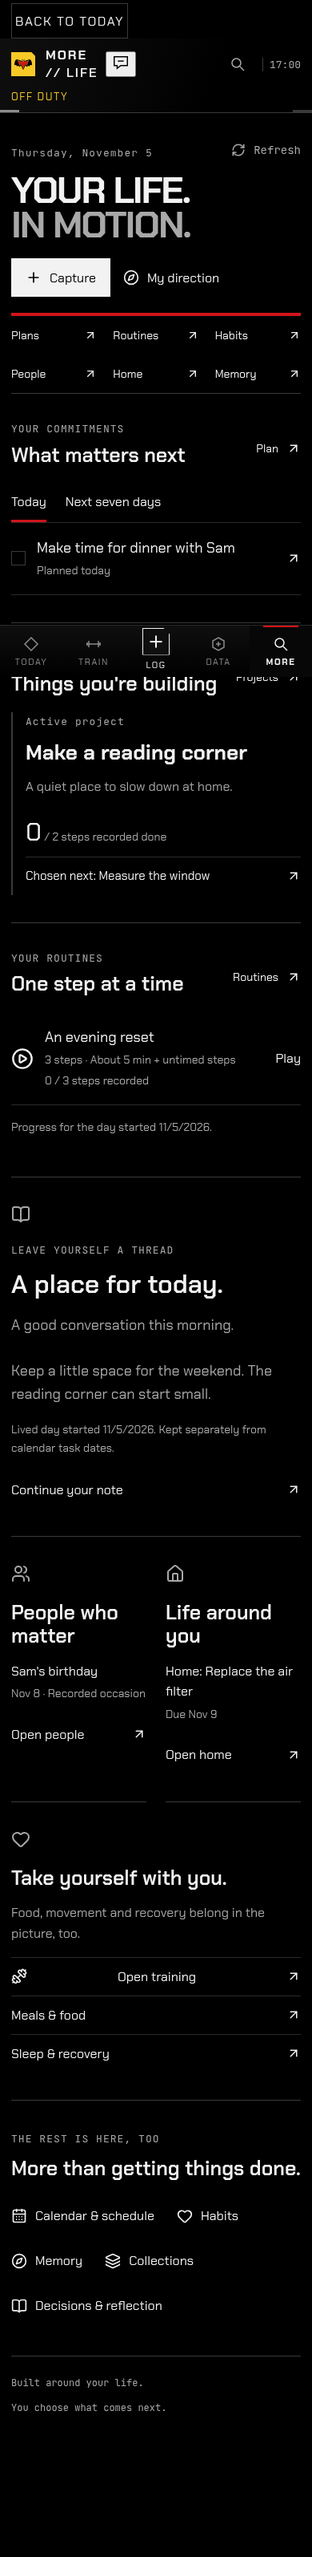
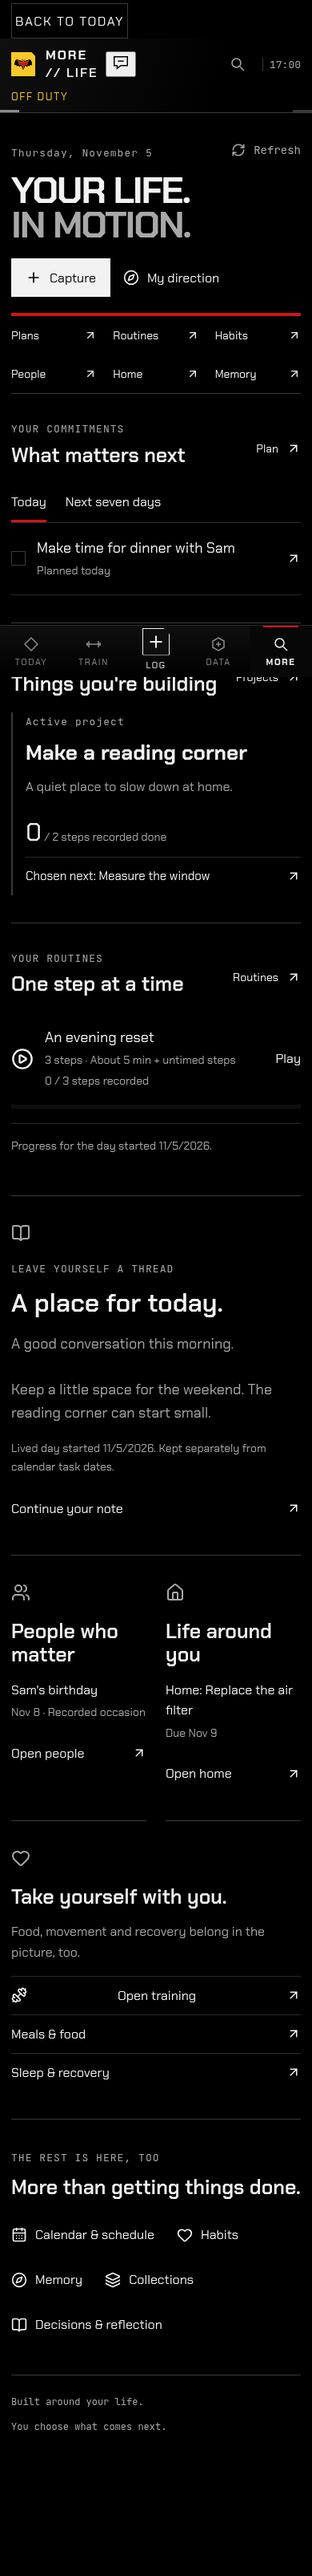
WHOLE-LIFE-001: make resumption and recorded progress visible

diff --git a/src/ui/screens/more/WholeLifeHome.tsx b/src/ui/screens/more/WholeLifeHome.tsx
@@ -59,6 +59,9 @@ export function WholeLifeHome({ active, onArea, onNavigate, onTask, idPrefix }: 
       <h2 id={`${idPrefix}-title`} tabIndex={-1}>YOUR LIFE.<br /><span>IN MOTION.</span></h2>
       <p className="wl-intro">{greeting}</p>
       <div className="wl-hero-actions"><button type="button" aria-label="Capture a thought" disabled={!onNavigate} onClick={() => navigate({ kind: "capture" })}><Plus size={20} /> Capture</button><button type="button" onClick={() => onArea("Direction")}><Compass size={20} /> My direction</button></div>
+      {workout && <button type="button" className="wl-resume" disabled={!onNavigate} onClick={() => navigate({ kind: "workout" })}>
+        <Dumbbell size={24} /><span><small>RECORDED WORKOUT IN PROGRESS</small><strong>Return to your workout</strong></span><ArrowUpRight size={20} />
+      </button>}
     </section>
     <nav className="wl-area-nav" aria-label="Life shortcuts">{(["Plans", "Routines", "Habits", "People", "Home", "Memory"] as const).map((area) => <button type="button" key={area} onClick={() => onArea(area)}>{area}<ArrowUpRight size={16} /></button>)}</nav>
     {!data ? <p role="status">Bringing your records together…</p> : <div className="wl-layout">
@@ -72,7 +75,7 @@ export function WholeLifeHome({ active, onArea, onNavigate, onTask, idPrefix }: 
           {!projects ? <Unavailable /> : projects.length ? <div className="wl-projects">{projects.map(({ project, progress }) => <article key={project.id} className="wl-project"><p className="wl-eyebrow">{project.status === "PAUSED" ? "Paused by you" : "Active project"}</p><h4>{project.title}</h4>{project.finish && <p>{project.finish}</p>}<p className="wl-project-count">{progress.done}<span> / {progress.total} steps recorded done</span></p><button type="button" disabled={progress.next ? !onTask : false} onClick={() => progress.next ? onTask?.(progress.next.id) : onArea("Plans")}><span>{progress.next ? `Chosen next: ${progress.next.title}` : "Choose a next step when you're ready"}</span><ArrowUpRight size={18} /></button></article>)}</div> : <div className="wl-breathing-room"><p>Something worth making room for?</p><span>Keep a project, a personal goal or a home undertaking here.</span><button type="button" onClick={() => onArea("Plans")}>Start with your plans <ArrowUpRight size={18} /></button></div>}
         </section>
         <section className="wl-section" aria-labelledby={`${idPrefix}-routine-title`}><header className="wl-section-head"><div><p className="wl-eyebrow">YOUR ROUTINES</p><h3 id={`${idPrefix}-routine-title`}>One step at a time</h3></div><button type="button" onClick={() => onArea("Routines")}>Routines <ArrowUpRight size={18} /></button></header>
-          {!routines ? <Unavailable /> : routines.length ? <ul className="wl-routines">{routines.map((routine) => <li key={routine.id}><button type="button" onClick={() => setPlaying(routine)}><CirclePlay size={28} /><span><strong>{routine.title}</strong><small>{routine.steps.length} steps{routineEstimate(routine.steps) ? ` · ${routineEstimate(routine.steps)}` : " · Your pace"}</small>{progress?.startedAt && <small>{routine.steps.filter((step) => progress.ticks.has(stepKey(routine.id, step.id))).length} / {routine.steps.length} steps recorded</small>}</span><span>Play</span></button></li>)}</ul> : <p className="wl-caption">No saved routines yet. Build a repeatable sequence for the moments you choose.</p>}{progress?.startedAt && <p className="wl-caption">Progress for the day started {new Date(progress.startedAt).toLocaleDateString()}.</p>}{data.routineProgress.state === "unavailable" && <p className="wl-unavailable">Routine progress could not be read.</p>}
+          {!routines ? <Unavailable /> : routines.length ? <ul className="wl-routines">{routines.map((routine) => <li key={routine.id}><button type="button" onClick={() => setPlaying(routine)}><CirclePlay size={28} /><span><strong>{routine.title}</strong><small>{routine.steps.length} steps{routineEstimate(routine.steps) ? ` · ${routineEstimate(routine.steps)}` : " · Your pace"}</small>{progress?.startedAt && <small>{routine.steps.filter((step) => progress.ticks.has(stepKey(routine.id, step.id))).length} / {routine.steps.length} steps recorded</small>}</span><span>Play</span></button>{progress?.startedAt && routine.steps.length > 0 && <progress className="wl-routine-progress" aria-label={`Recorded steps in ${routine.title}`} aria-valuetext={`${routine.steps.filter((step) => progress.ticks.has(stepKey(routine.id, step.id))).length} of ${routine.steps.length} steps recorded`} max={routine.steps.length} value={routine.steps.filter((step) => progress.ticks.has(stepKey(routine.id, step.id))).length} />}</li>)}</ul> : <p className="wl-caption">No saved routines yet. Build a repeatable sequence for the moments you choose.</p>}{progress?.startedAt && <p className="wl-caption">Progress for the day started {new Date(progress.startedAt).toLocaleDateString()}.</p>}{data.routineProgress.state === "unavailable" && <p className="wl-unavailable">Routine progress could not be read.</p>}
         </section>
       </div>
       <aside className="wl-side" aria-label="Everyday life">

diff --git a/tests/browser/WholeLife.test.tsx b/tests/browser/WholeLife.test.tsx
@@ -10,6 +10,7 @@ import { createProject, setProjectNext } from "../../src/application/projectComm
 import { createRoutine } from "../../src/application/routineCommands";
 import { saveDailyNote } from "../../src/application/dailyNoteCommands";
 import { getWholeLife } from "../../src/application/wholeLifeQueries";
+import { startWorkout } from "../../src/application/trainCommands";
 import { db } from "../../src/persistence/db";
 import { settleVisuals } from "./helpers/settleVisuals";
 import "../../src/ui/screens/more/operator.css";
@@ -121,5 +122,18 @@ it("opens the routine player read-only and reflects completion after explicit DO
   await expect.element(screen.getByRole("heading", { name: "Put tomorrow's things together", exact: true })).toBeVisible();
   await screen.getByRole("button", { name: "CLOSE PLAYER", exact: true }).click();
   await expect.element(screen.getByText("1 / 2 steps recorded", { exact: true })).toBeVisible();
+  await expect.element(screen.getByRole("progressbar", { name: "Recorded steps in An evening reset" })).toHaveAttribute("value", "1");
+  await expect.element(screen.getByRole("progressbar", { name: "Recorded steps in An evening reset" })).toHaveAttribute("max", "2");
   expect(await db.events.where("type").equals("ROUTINE_STEP_SET").count()).toBe(1);
+});
+
+it("surfaces an actual open workout and resumes through the shell without writing", async () => {
+  const { day } = await seed();
+  await startWorkout(day.id, "A", "STANDARD");
+  const count = await db.events.count();
+  const navigate = vi.fn();
+  const screen = await render(<LifeScreen active startAtOverview onNavigate={navigate} onTask={vi.fn()} />);
+  await screen.getByRole("button", { name: /Return to your workout/ }).click();
+  expect(navigate).toHaveBeenLastCalledWith({ kind: "workout" });
+  expect(await db.events.count()).toBe(count);
 });

diff --git a/src/ui/screens/more/wholeLife.css b/src/ui/screens/more/wholeLife.css
@@ -76,4 +76,14 @@
   .wl-hero { padding-bottom:20px; }
 }
 .whole-life button:active:not(:disabled) { transform:translateY(1px); }
+.whole-life .wl-resume { width:100%; margin-top:20px; padding:14px 16px; gap:14px; background:var(--surface-2); border-left:3px solid var(--red); }
+.wl-resume > span { flex:1; min-width:0; }
+.whole-life .wl-resume small { margin:0 0 5px; font:12px/1.5 var(--font-mono); letter-spacing:.06em; }
+.wl-resume strong { font-weight:500; font-size:18px; }
+.wl-routine-progress { display:block; appearance:none; width:100%; height:5px; border:0; margin:0 0 18px; background:var(--surface-2); color:var(--red); accent-color:var(--red); }
+.wl-routine-progress::-webkit-progress-bar { background:var(--surface-2); }
+.wl-routine-progress::-webkit-progress-value { background:var(--red); transition:width .18s ease-out; }
+.wl-routine-progress::-moz-progress-bar { background:var(--red); }
+.wl-agenda button:is(:hover,:focus-visible),.wl-routines button:is(:hover,:focus-visible) { background:var(--surface-2); box-shadow:inset 2px 0 var(--red); }
 @media(prefers-reduced-motion:reduce) { .whole-life *, .whole-life *::before, .whole-life *::after { animation:none!important; transition:none!important; scroll-behavior:auto!important; } }
+@media(prefers-reduced-motion:reduce) { .wl-routine-progress::-webkit-progress-value { transition:none; } }

diff --git a/docs/agent/WHOLE-LIFE-001.md b/docs/agent/WHOLE-LIFE-001.md
@@ -29,6 +29,18 @@
 
 ## Evidence and handoff
 
+- Final bounded polish authorized by Gavin's “We have 5% left… Make it amazing. Go”:
+  actual open workouts gain a prominent resume control; native routine progress indicators reflect
+  recorded ticks; interactive rows gain keyboard/hover feedback. No new data query, write command,
+  model, dependency or fabricated activity. Progress remains a step count, never a life score.
+  WholeLife/Life/RoutinePlayer: **22/22 PASS** including read-only workout resumption and native
+  progress values after explicit DONE. Architecture again PASS. After the final track-contrast
+  adjustment, WholeLife is **10/10 PASS** (including full axe) and the production/PWA build,
+  including TypeScript, is again PASS. The full-suite evidence below predates this small
+  presentation pass; exact-head CI and independent review remain pending.
+  [Resume preview](../screenshots/whole-life-001/resume.png) ·
+  [Recorded routine progress](../screenshots/whole-life-001/routine-progress.png).
+
 - Focused Chromium: 21/21 PASS across WholeLife, existing LIFE and RoutinePlayer tests. New
   acceptance covers 320/360/412/1440 px, full axe rules, partial read failure/retry, zero browse
   writes, workday routing, a genuinely empty day, draft/focus restoration and routine DONE feedback.

diff --git a/docs/agent/CURRENT_CHECKPOINT.md b/docs/agent/CURRENT_CHECKPOINT.md
@@ -16,6 +16,11 @@
   one-file/two-test skips; architecture/TypeScript/production/PWA build PASS. A final small player
   style-containment repair has renewed 21/21 focused PASS, architecture 455 files and build PASS;
   the full suite predates that containment repair. Exact-head remote CI/review remain pending.
+- Gavin authorized a final bounded pass with the remaining weekly budget. Prominent resumption of
+  an actual open workout, native recorded-step progress and keyboard/hover feedback are implemented.
+  Focused WholeLife/Life/RoutinePlayer **22/22 PASS**; final contrast-adjusted WholeLife **10/10 PASS**,
+  architecture and production/PWA/TypeScript build PASS. No new query, write command, schema or
+  dependency. The full-suite result above predates this small presentation pass.
 - [Actual App captures](../screenshots/whole-life-001/README.md) use synthetic records in a disposable
   browser context. Interactive inspection fixed the inherited 430 px desktop wrapper and tall phone
   introduction. CI repair #409 is already on master; live GitHub API access still returns Forbidden.

diff --git a/docs/screenshots/whole-life-001/README.md b/docs/screenshots/whole-life-001/README.md
@@ -9,6 +9,9 @@ context; no operator backup or real personal data was loaded.
 - `desktop.png`: 1440×1000 viewport, full scrollable content. LIFE expands beyond the legacy
   430 px FIELD wrapper; other workspaces retain their established width.
 - `player.png`: the real canonical routine player opened from the overview.
+- `routine-progress.png`: actual recorded progress after explicitly completing one step in that player.
+- `resume.png`: the prominent resume control after creating a synthetic workout through the canonical
+  command. The control only appears for a real open session; opening it does not start another.
 
 The capture exercised TODAY → YOUR LIFE → PLAY → close, checked 390/390 and 1440/1440 viewport /
 document widths, and verified hero opacity 1. The browser acceptance tests additionally cover
